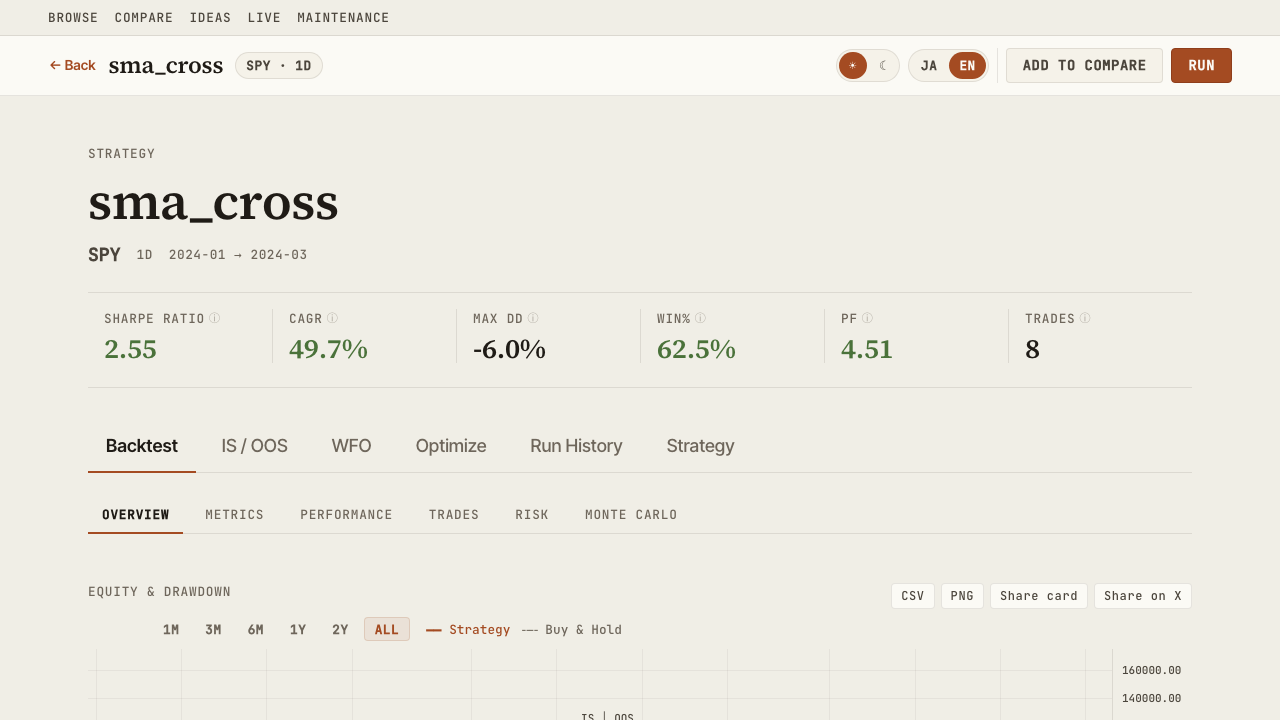
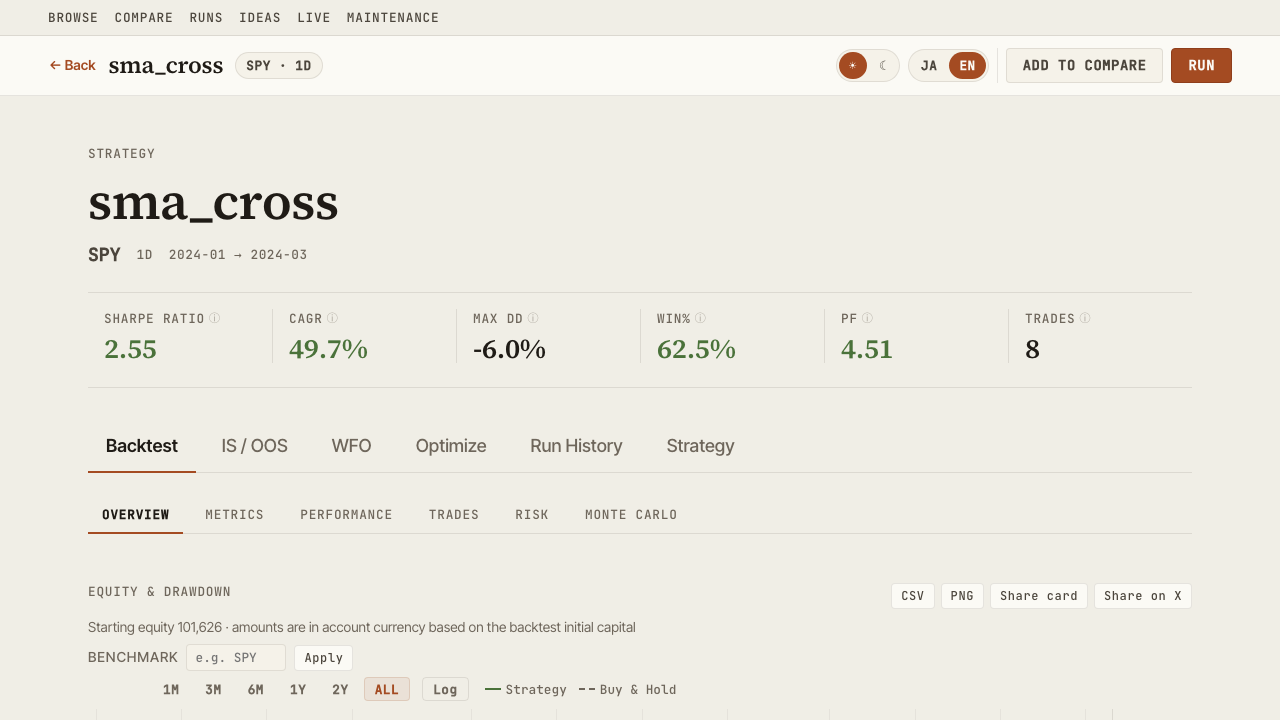
feat: エクイティチャートに系列凡例を追加する
ライブ画面は equity に指数（Buy & Hold）とバックテストを重ねて 3 本の線を描くが、
凡例が無くどの線が何かを判別できなかった。EquityDrawdownPaneTV の凡例は
showBenchmark 用のハードコードと regime バンド用しか持っておらず、overlays 系列は
対象外だったため。

- equity + benchmark + overlays を 1 つの凡例に統合し、比較系列が 1 本でもあれば
  表示する（線が equity だけの IS/OOS・レポートでは従来どおり出さない）
- 色・線種は系列に渡すオプションからそのまま引く。従来の凡例は Strategy を
  theme.accent 固定で描いていたが equity 線は success/danger で描かれており、
  色が一致していなかった（凡例の存在価値は色と系列名の対応付けだけにある）
- overlay のパレット割り当てを useMemo に集約し、系列生成と凡例が同じ表を参照する
  ようにした。別々に計算すると再び食い違う
- 主系列名は equityLabel prop で差し替える。ライブ画面は「ライブ」を渡し、
  バックテストの曲線と取り違えないようにする
- 凡例が写る docs/screenshots の live / backtest-tv を再撮影

diff --git a/frontend/src/charts/tv/EquityDrawdownPaneTV.tsx b/frontend/src/charts/tv/EquityDrawdownPaneTV.tsx
@@ -45,6 +45,13 @@ export interface EquityOverlay {
   dashed?: boolean
 }
 
+/** 凡例 1 件分。色・線種は対応する系列に実際に適用したものと同じ値を入れる。 */
+interface SeriesLegendEntry {
+  label: string
+  color: string
+  dashed: boolean
+}
+
 export interface EquityDrawdownPaneTVProps {
   equity: number[]
   dates: string[]
@@ -54,6 +61,11 @@ export interface EquityDrawdownPaneTVProps {
   showBenchmark?: boolean
   /** equity と並走する追加比較系列（issue の多系列比較・任意本数） */
   overlays?: EquityOverlay[]
+  /**
+   * 凡例に出す主系列（equity）の名前。主系列が何を指すかは画面ごとに違う
+   * （バックテスト = 戦略の成績 / ライブ = 実際の運用成績）ため呼び出し側が決める。
+   */
+  equityLabel?: string
   compact?: boolean
   /** レジーム背景バンドの元データ（issue #317） */
   regimeSeries?: RegimeSeries | null
@@ -78,6 +90,7 @@ export function EquityDrawdownPaneTV(props: EquityDrawdownPaneTVProps) {
     benchmark,
     showBenchmark = false,
     overlays,
+    equityLabel = 'Strategy',
     compact = false,
     regimeSeries,
     showRegime = false,
@@ -112,6 +125,22 @@ export function EquityDrawdownPaneTV(props: EquityDrawdownPaneTVProps) {
   }, [points])
 
   const overlayCount = overlays?.length ?? 0
+
+  /**
+   * overlay のラベル → パレット位置。**系列の生成と凡例が共有する唯一の割り当て**。
+   *
+   * 色は配列位置ではなく**ラベル**で決める。配列位置で決めると、ラベルはそのままで
+   * 並び順だけ変わったときに系列の色が入れ替わり、線の色で系列を識別している画面では
+   * 同じものが別物に見える。ソート済みユニークラベルの位置を使うことで、並び替えに
+   * 対して安定させる。
+   *
+   * ここを 1 箇所に集約するのは、凡例が系列と別ロジックで色を決めると両者が食い違う
+   * ため（凡例の存在価値は色と系列名の対応付けだけにあり、ずれた凡例は無いより悪い）。
+   */
+  const overlayColorIndexByLabel = useMemo(() => {
+    const labels = [...new Set((overlays ?? []).map((o) => o.label))].sort()
+    return new Map(labels.map((label, idx) => [label, idx] as const))
+  }, [overlays])
 
   const { equityData, benchmarkData, overlayData, drawdownData, markers } = useMemo(() => {
     const conv = fromViewportPoints(points, overlayCount)
@@ -240,16 +269,8 @@ export function EquityDrawdownPaneTV(props: EquityDrawdownPaneTVProps) {
       }
     }
 
-    // 色は配列位置ではなく**ラベル**で決める。配列位置で決めると、ラベルは
-    // そのままで並び順だけ変わったときに系列の色が入れ替わり、線の色で系列を
-    // 識別している画面では同じものが別物に見える。ソート済みユニークラベルの
-    // 位置を使うことで、並び替えに対して安定させる。
-    const colorIndexByLabel = new Map(
-      [...wantedLabels].sort().map((label, idx) => [label, idx]),
-    )
-
     wanted.forEach((overlay) => {
-      const colorIndex = colorIndexByLabel.get(overlay.label) ?? 0
+      const colorIndex = overlayColorIndexByLabel.get(overlay.label) ?? 0
       const options = overlayLineOptions(theme, colorIndex, overlay.color, overlay.dashed)
       const existing = map.get(overlay.label)
       if (existing) {
@@ -258,7 +279,7 @@ export function EquityDrawdownPaneTV(props: EquityDrawdownPaneTVProps) {
         map.set(overlay.label, chart.addSeries(LineSeries, options, 0))
       }
     })
-  }, [overlays, theme])
+  }, [overlays, overlayColorIndexByLabel, theme])
 
   // issue #317: レジーム背景バンドの attach/detach。
   // primitive は bands をクロージャに持つため、series/表示切替/テーマが変わったら
@@ -331,6 +352,50 @@ export function EquityDrawdownPaneTV(props: EquityDrawdownPaneTVProps) {
   )
 
   // 凡例は DOM 側に描く（canvas 内に描くとテキスト検索・SR 到達性が失われるため）
+
+  /**
+   * equity + 比較系列の凡例。
+   *
+   * 比較系列が 1 本も無い画面（IS/OOS・レポート）では線が equity 1 本しかなく、
+   * 凡例は操作行を圧迫するだけなので出さない。色・線種は系列に渡すオプションを
+   * そのまま引くので、系列側の色決定を変えても凡例が置き去りにならない。
+   */
+  const seriesLegend = useMemo<SeriesLegendEntry[]>(() => {
+    // 重複ラベルは系列側が label キーの Map で後勝ちに統合する。凡例だけ 2 件
+    // 並ぶと、描かれていない線が存在するように見えるので同じ規則で潰す。
+    const uniqueOverlays = [...new Map((overlays ?? []).map((o) => [o.label, o])).values()]
+    if (!showBenchmark && uniqueOverlays.length === 0) return []
+
+    const entries: SeriesLegendEntry[] = [
+      {
+        label: equityLabel,
+        color: equityAreaOptions(theme, isPositive).lineColor ?? theme.text3,
+        dashed: false,
+      },
+    ]
+    if (showBenchmark) {
+      entries.push({
+        label: 'Buy & Hold',
+        color: benchmarkLineOptions(theme).color ?? theme.text3,
+        dashed: true,
+      })
+    }
+    for (const overlay of uniqueOverlays) {
+      const options = overlayLineOptions(
+        theme,
+        overlayColorIndexByLabel.get(overlay.label) ?? 0,
+        overlay.color,
+        overlay.dashed,
+      )
+      entries.push({
+        label: overlay.label,
+        color: options.color ?? theme.text3,
+        dashed: Boolean(overlay.dashed),
+      })
+    }
+    return entries
+  }, [overlays, overlayColorIndexByLabel, showBenchmark, equityLabel, theme, isPositive])
+
   const regimeLegend = useMemo(() => {
     if (!showRegime || !regimeSeries) return []
     return createRegimeBandsPrimitive(regimeSeries, theme.series, REGIME_BAND_ALPHA).legend()
@@ -407,20 +472,33 @@ export function EquityDrawdownPaneTV(props: EquityDrawdownPaneTVProps) {
         >
           Log
         </button>
-        {showBenchmark && (
+        {seriesLegend.length > 0 && (
           <div
+            data-testid="series-legend"
             style={{
               marginLeft: 12,
               display: 'flex',
               gap: 12,
               alignItems: 'center',
+              flexWrap: 'wrap',
               fontFamily: 'var(--mono)',
               fontSize: 'var(--fs-mono-sm)',
               color: 'var(--text3)',
             }}
           >
-            <span style={{ color: theme.accent }}>━━ Strategy</span>
-            <span>╌╌ Buy &amp; Hold</span>
+            {seriesLegend.map((e) => (
+              <span key={e.label} style={{ display: 'flex', alignItems: 'center', gap: 5 }}>
+                <span
+                  data-testid={`series-legend-swatch-${e.label}`}
+                  aria-hidden="true"
+                  style={{
+                    width: 16,
+                    borderTop: `2px ${e.dashed ? 'dashed' : 'solid'} ${e.color}`,
+                  }}
+                />
+                {e.label}
+              </span>
+            ))}
           </div>
         )}
         {regimeLegend.length > 0 && (

diff --git a/frontend/src/charts/tv/__tests__/EquityDrawdownPaneTV.test.tsx b/frontend/src/charts/tv/__tests__/EquityDrawdownPaneTV.test.tsx
@@ -596,3 +596,115 @@ describe('EquityDrawdownPaneTV log scale (issue #378)', () => {
     )
   })
 })
+
+/**
+ * 系列凡例。ライブ画面は overlays（指数・バックテスト）で 3 本の線を重ねて描くが、
+ * 凡例が無いためどの線が何かを判別できなかった。
+ */
+describe('EquityDrawdownPaneTV series legend', () => {
+  const baseProps = {
+    lang: 'ja' as const,
+    equity: sampleEquity,
+    dates: sampleDates,
+    drawdown: sampleDrawdown,
+    isCutoffIdx: 15,
+  }
+
+  function overlayColors(): string[] {
+    return addSeriesMock.mock.calls
+      .filter((args) => (args as unknown[])[0] === 'LineSeriesDef')
+      .map((args) => ((args as unknown[])[1] as { color?: string }).color ?? '')
+  }
+
+  it('overlays の各ラベルを凡例に表示する', () => {
+    render(
+      <EquityDrawdownPaneTV
+        {...baseProps}
+        overlays={[
+          { label: '指数（Buy & Hold）', values: sampleEquity },
+          { label: 'バックテスト', values: sampleEquity, dashed: true },
+        ]}
+      />,
+    )
+    const legend = screen.getByTestId('series-legend')
+    expect(legend).toHaveTextContent('指数（Buy & Hold）')
+    expect(legend).toHaveTextContent('バックテスト')
+  })
+
+  it('凡例の色は実際に系列へ渡した色と一致する', () => {
+    // WHY: 凡例の存在価値は「線の色 → 系列名」の対応付けだけにある。色が
+    // 食い違った凡例は、無いより悪い（別系列を読み違えたまま判断される）。
+    // 実際、統合前の凡例は Strategy を theme.accent 固定で描いていたが、
+    // equity 線は success/danger で描かれており一致していなかった。
+    render(
+      <EquityDrawdownPaneTV
+        {...baseProps}
+        overlays={[
+          { label: 'QQQ', values: sampleEquity },
+          { label: 'BT', values: sampleEquity, dashed: true },
+        ]}
+      />,
+    )
+    const [qqqColor, btColor] = overlayColors()
+    expect(qqqColor).toBeTruthy()
+    expect(btColor).toBeTruthy()
+
+    const swatchOf = (label: string) =>
+      screen.getByTestId(`series-legend-swatch-${label}`)
+    expect(swatchOf('QQQ')).toHaveStyle({ borderTopColor: qqqColor })
+    expect(swatchOf('BT')).toHaveStyle({ borderTopColor: btColor })
+    // dashed 指定は線種としても凡例に反映する（色だけでは 2 系列を区別しにくい）
+    expect(swatchOf('BT')).toHaveStyle({ borderTopStyle: 'dashed' })
+    expect(swatchOf('QQQ')).toHaveStyle({ borderTopStyle: 'solid' })
+  })
+
+  it('主系列のラベルは equityLabel で差し替えられる', () => {
+    // WHY: 主系列が何かは画面ごとに違う（バックテスト = Strategy / ライブ = 実績）。
+    // 比較系列だけ名前が付いて主系列が無名だと、どれが自分の成績か分からない。
+    render(
+      <EquityDrawdownPaneTV
+        {...baseProps}
+        equityLabel="ライブ"
+        overlays={[{ label: 'QQQ', values: sampleEquity }]}
+      />,
+    )
+    expect(screen.getByTestId('series-legend')).toHaveTextContent('ライブ')
+  })
+
+  it('比較系列が無ければ凡例を出さない', () => {
+    // WHY: 線が 1 本しかない画面（IS/OOS・レポート）で凡例を出しても情報量は
+    // 増えず、チャート上部の操作行を圧迫するだけ。
+    render(<EquityDrawdownPaneTV {...baseProps} />)
+    expect(screen.queryByTestId('series-legend')).not.toBeInTheDocument()
+  })
+
+  it('showBenchmark 時は Buy & Hold を凡例に含む', () => {
+    render(
+      <EquityDrawdownPaneTV
+        {...baseProps}
+        benchmark={sampleEquity.map((v) => v * 0.9)}
+        showBenchmark
+      />,
+    )
+    const legend = screen.getByTestId('series-legend')
+    expect(legend).toHaveTextContent('Strategy')
+    expect(legend).toHaveTextContent('Buy & Hold')
+  })
+
+  it('重複ラベルの overlays は凡例にも 1 件だけ出す', () => {
+    // WHY: 系列側は label をキーにした Map で 1 本に統合される。凡例だけ 2 件
+    // 並ぶと、描かれていない線が存在するように見える。
+    const warn = vi.spyOn(console, 'warn').mockImplementation(() => {})
+    render(
+      <EquityDrawdownPaneTV
+        {...baseProps}
+        overlays={[
+          { label: 'QQQ', values: sampleEquity },
+          { label: 'QQQ', values: sampleEquity.map((v) => v * 2) },
+        ]}
+      />,
+    )
+    expect(screen.getAllByTestId('series-legend-swatch-QQQ')).toHaveLength(1)
+    warn.mockRestore()
+  })
+})

diff --git a/frontend/src/components/live/__tests__/LivePositionView.test.tsx b/frontend/src/components/live/__tests__/LivePositionView.test.tsx
@@ -125,6 +125,24 @@ describe('<LivePositionView /> assembly (Task 13)', () => {
     expect(props?.overlays).toEqual([])
   })
 
+  it('主系列の凡例ラベルを言語に応じて渡す', () => {
+    // WHY: ライブ画面は equity に指数・バックテストを重ねる。凡例の既定ラベルは
+    // 'Strategy'（バックテスト画面向け）なので、そのままだと主系列が「戦略の
+    // バックテスト曲線」に見え、実運用の成績と取り違える。
+    const summary = {
+      strategy_id: 'pf_1',
+      kind: 'position' as const,
+      metrics: {},
+      equity: [['2026-06-04T00:00:00', 1_000_000]],
+    } as unknown as LiveSummary
+
+    render(<LivePositionView summary={summary} warnings={[]} lang="ja" />)
+    expect(equityPaneProps.current?.equityLabel).toBe('ライブ')
+
+    render(<LivePositionView summary={summary} warnings={[]} lang="en" />)
+    expect(equityPaneProps.current?.equityLabel).toBe('Live')
+  })
+
   it('ベンチマークがあれば overlays に指数系列を equity と同じインデックスで積む', () => {
     const summary = {
       strategy_id: 'pf_1',

diff --git a/frontend/src/components/live/LivePositionView.tsx b/frontend/src/components/live/LivePositionView.tsx
@@ -179,6 +179,9 @@ export function LivePositionView({ summary, warnings, lang }: Props): ReactEleme
               drawdown={drawdown}
               isCutoffIdx={0}
               overlays={overlays}
+              // 既定の 'Strategy' はバックテスト画面向けの名前。ここでの主系列は
+              // 実運用の成績なので、比較系列（指数・バックテスト）と取り違えない名前にする
+              equityLabel={L('ライブ', 'Live')}
               lang={lang}
             />
           </div>
